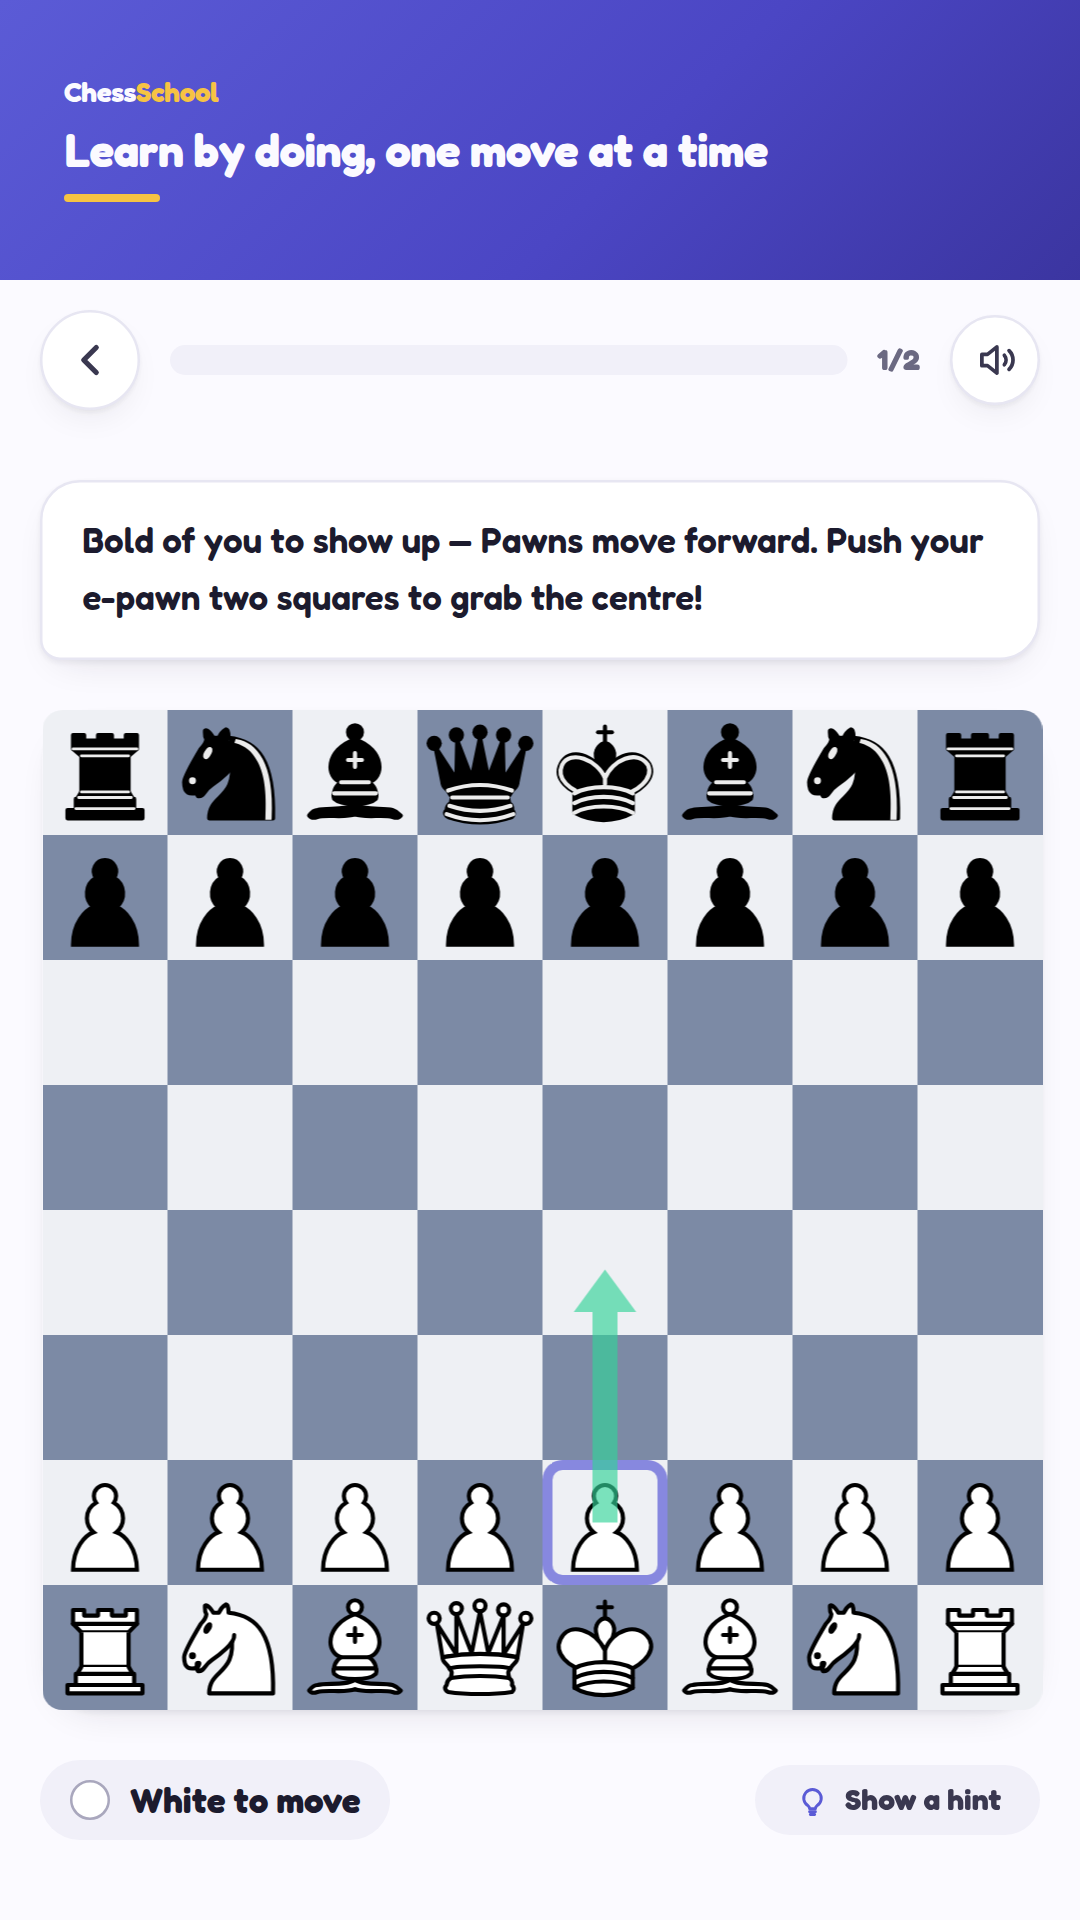
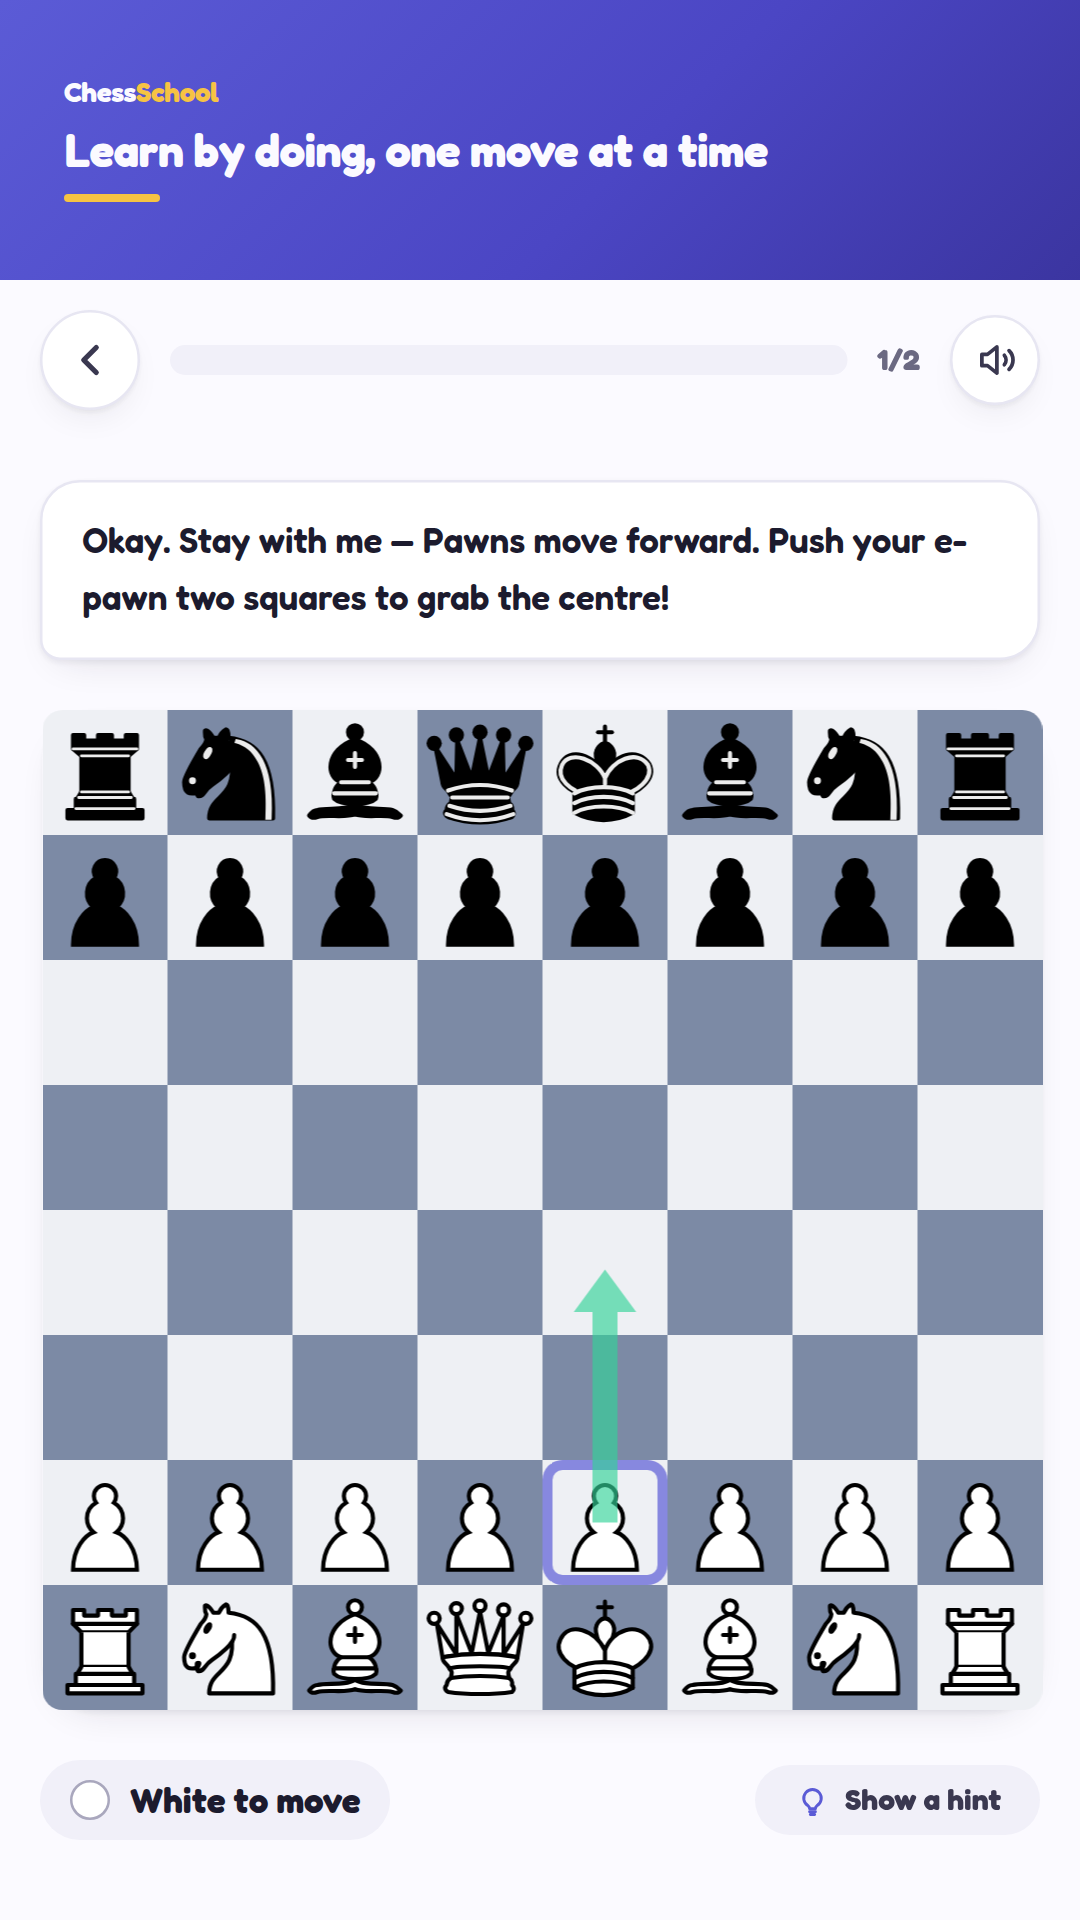
F12: capture Alex with Otto, the launch coach
Set the capture browser to anxious_nerd before the frames load, and recapture the lesson, bot game, and fork so Ash's lines are gone.

Changed region(s): [[0.0917, 0.25, 0.9167, 0.3438]]

diff --git a/apps/mobile/store-assets/play-store/ASSETS.md b/apps/mobile/store-assets/play-store/ASSETS.md
@@ -32,9 +32,9 @@ The optional id list recaptures only those frames. Omit it to recapture all six.
 | `screenshots/caption-frame.html` | — | — | Caption band source. Fredoka on `#5b5bd6` / `#4b46c4` / `#3b35a0`, gold rule `#f6c343`. |
 | `screenshots/01-campus.png` | 1080×1920 | 327046 | Caption: “Learn chess step by step, like school”. Academy path with the stage name **Starter**. Signed-in level bar. Welcome mascot is scrolled off. |
 | `screenshots/02-class-journey.png` | 1080×1920 | 263356 | Caption: “Short classes that build on each other”. The Chess Board class lesson path. No portrait on this screen. |
-| `screenshots/03-lesson.png` | 1080×1920 | 282434 | Caption: “Learn by doing, one move at a time”. Pawn Power. Coach line “Pawns move forward. Push your e-pawn two squares to grab the centre!”, the board with the lesson’s e2–e4 arrow, and “White to move”. The generic “Take your time and calculate” tip is not in the frame. Portrait hidden. |
-| `screenshots/04-bot-game.png` | 1080×1920 | 297981 | Caption: “Play bots that match your level”. Bot game vs **Vera · 1600** on a 5-minute clock. Header `vs Vera · 1600`. Opponent bar **Vera · 1600** at **4:22**, your bar **You** at **3:44**. Board inset from the edges. Position after 1.e4 e5 2.Nf3 Nc6 3.Bc4 Bc5 4.c3 Nf6 5.d3 d6 6.O-O O-O 7.Re1 a6 8.Nbd2 Ba7 9.h3 h6. The coach portrait is hidden; the coach line is text only. The name row has no character art. |
-| `screenshots/05-tactic.png` | 1080×1920 | 234804 | Caption: “Spot forks, pins and more”. The Fork, all 8 ranks visible below the progress header. The board is centred, with equal side margins. Knight on **c7**, black king on **e8**, rook on **a8**, with arrows from c7 to e8 and c7 to a8. Coach line: “Here's the point — Watch the knight leap to c7 — checking the king and hitting the rook.” Hint under the board: “A knight fork hits two pieces at once — aim at the king and a big piece.” Continue is directly under that hint. Portrait hidden. |
+| `screenshots/03-lesson.png` | 1080×1920 | 283753 | Caption: “Learn by doing, one move at a time”. Pawn Power. Coach line “Okay. Stay with me — Pawns move forward. Push your e-pawn two squares to grab the centre!”, the board with the lesson’s e2–e4 arrow, and “White to move”. The generic “Take your time and calculate” tip is not in the frame. Portrait hidden. |
+| `screenshots/04-bot-game.png` | 1080×1920 | 299309 | Caption: “Play bots that match your level”. Bot game vs **Vera · 1600** on a 5-minute clock. Header `vs Vera · 1600`. Opponent bar **Vera · 1600** at **4:22**, your bar **You** at **3:44**. Board inset from the edges. Position after 1.e4 e5 2.Nf3 Nc6 3.Bc4 Bc5 4.c3 Nf6 5.d3 d6 6.O-O O-O 7.Re1 a6 8.Nbd2 Ba7 9.h3 h6. Coach line “Vera plays slowly. Find the hidden weakness.” The coach portrait is hidden. The name row has no character art. |
+| `screenshots/05-tactic.png` | 1080×1920 | 233879 | Caption: “Spot forks, pins and more”. The Fork, all 8 ranks visible below the progress header. The board is centred, with equal side margins. Knight on **c7**, black king on **e8**, rook on **a8**, with arrows from c7 to e8 and c7 to a8. Coach line: “Quick note — Watch the knight leap to c7 — checking the king and hitting the rook.” Hint under the board: “A knight fork hits two pieces at once — aim at the king and a big piece.” Continue is directly under that hint. Portrait hidden. |
 | `screenshots/06-review.png` | 1080×1920 | 295170 | Caption: “Review every game, move by move”. Replay of that same game, stopped on **6. O-O**. This screen has no separate eval or coach card on a resigned game; the move line is the label. Move list: 1.e4 e5 2.Nf3 Nc6 3.Bc4 Bc5 4.c3 Nf6 5.d3 d6 6.O-O O-O 7.Re1 a6 8.Nbd2 Ba7 9.h3 h6. Board notation is hidden and the pieces are full size. The board is the same width as the bot-game frame, with the same side margins. The replay controls under the board sit inside those margins. No loading bar. The review index mascot is not this screen. |
 
 Replaced because they showed coach or mascot art, or pointed at files that no longer exist: `screenshots/01-academy.png`, `screenshots/04-play.png`, `screenshots/05-review.png`, `screenshots/06-profile.png`, and `feature-graphic-1024x500.png`.
